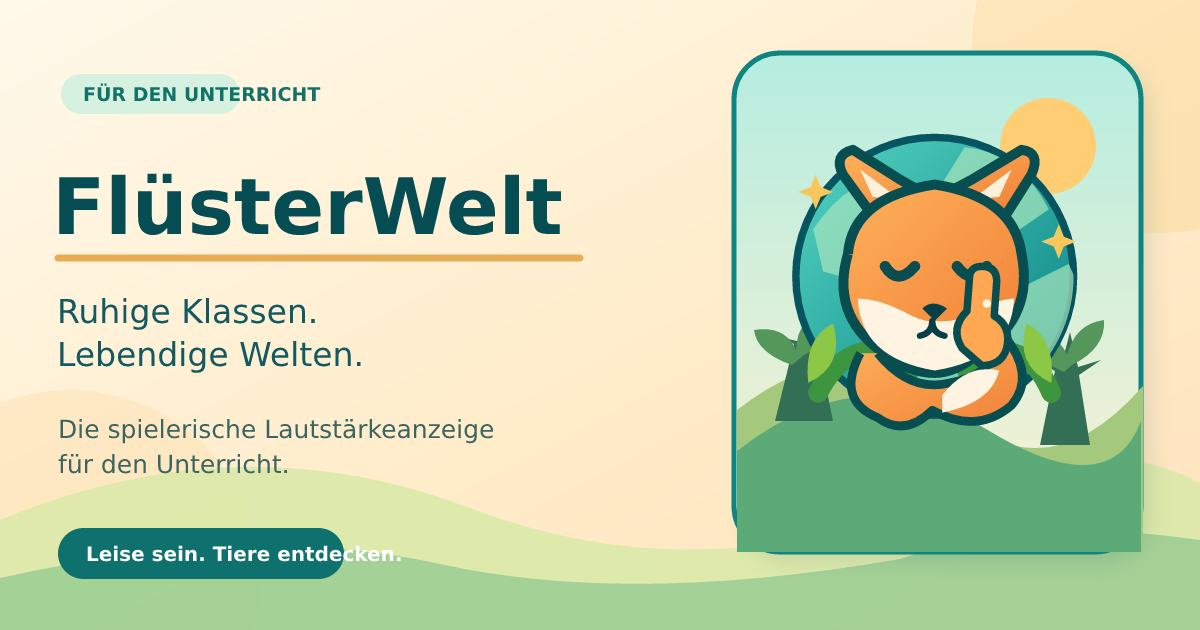
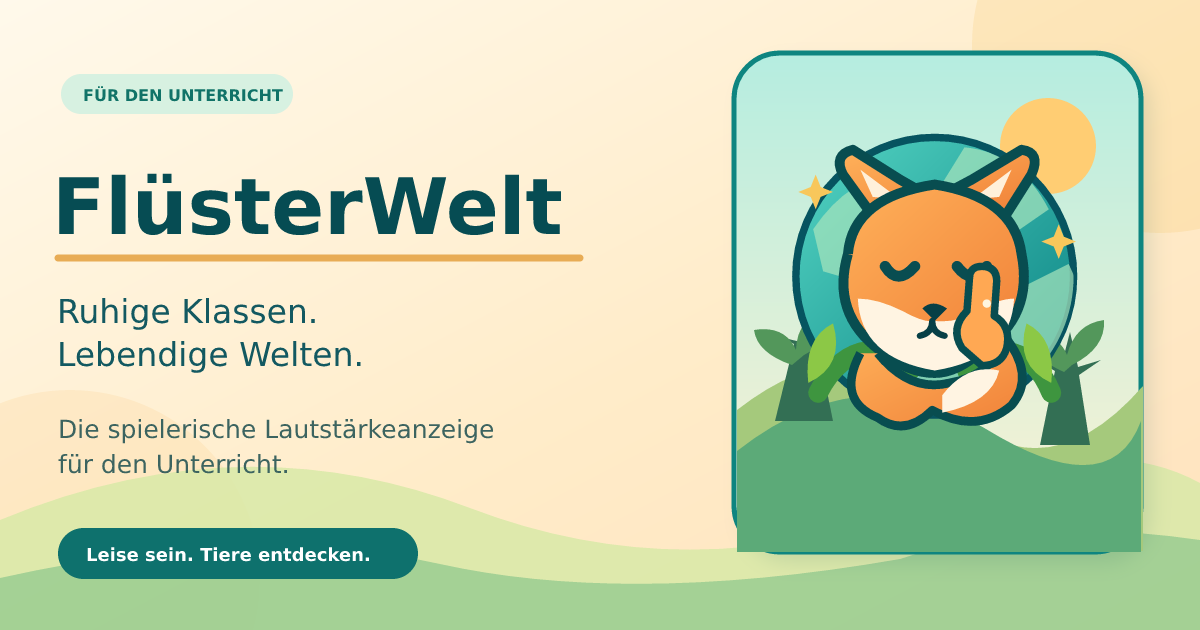
polish: align translations and social preview with FlüsterWelt brand

Changed region(s): [[0.0617, 0.8143, 0.37, 0.9349], [0.0617, 0.1206, 0.2775, 0.181]]

diff --git a/src/lib/i18n/index.svelte.ts b/src/lib/i18n/index.svelte.ts
@@ -19,7 +19,7 @@ const en = {
   locale: "en",
   ui: {
     "language.change": "Change language",
-    "app.pageTitle": "Shy Safari — free classroom noise level monitor",
+    "app.pageTitle": "FlüsterWelt — free classroom noise level monitor",
     "app.description":
       "A free classroom noise monitor for the projector. Shy savanna and coral reef animals come out the longer the room stays quiet. No sign-up, nothing recorded.",
     "brand.title": "Built by teacher.dev",
@@ -30,7 +30,7 @@ const en = {
     "common.howItWorks": "how it works",
     "preview.alt":
       "FlüsterWelt: a friendly fox before a globe, with the words Calm classes. Lively worlds.",
-    "common.back": "← Back to Shy Safari",
+    "common.back": "← Back to FlüsterWelt",
     "common.close": "Close",
     "common.cancel": "Cancel",
     "common.done": "Done",
@@ -40,10 +40,10 @@ const en = {
     "float.openHint":
       "Float the scene in a small window over your slides or other tabs",
     "float.failed": "The floating window could not be opened.",
-    "floating.title": "Shy Safari is floating",
+    "floating.title": "FlüsterWelt is floating",
     "floating.instructions":
       "The scene is in its own window over your other tabs, and keeps listening to the room. Keep this tab open: the window's back-to-tab button brings it back here.",
-    "floating.return": "Bring Shy Safari back here",
+    "floating.return": "Bring FlüsterWelt back here",
     "start.shy": "Shh… these animals are shy!",
     "start.explain":
       "If it gets too loud, they stay hidden. When the room is calm again, they'll start coming out.",
@@ -247,7 +247,7 @@ const en = {
     "blocked.unsupported":
       "This browser cannot use a microphone. Chrome, Edge and Safari all work.",
     "blocked.tryAgain": "Try again",
-    "about.pageTitle": "About — Shy Safari",
+    "about.pageTitle": "About — FlüsterWelt",
     "about.meta":
       "Shy Safari is a free classroom noise tool made at the EdTech-a-thon and run by teacher.dev. No ads, no accounts.",
     "about.title": "About",
@@ -270,8 +270,8 @@ const en = {
     "about.feedback":
       "If something isn't working, or you have an idea for Shy Safari or for another tool you'd use in class, send us an email.",
     "about.email": "Email support@teacher.dev",
-    "privacy.pageTitle": "Privacy — Shy Safari",
-    "privacy.meta": "What Shy Safari collects, what it doesn't, and why.",
+    "privacy.pageTitle": "Privacy — FlüsterWelt",
+    "privacy.meta": "What FlüsterWelt collects, what it doesn't, and why.",
     "privacy.title": "Privacy",
     "privacy.lede": "What we collect, what we don't, and why.",
     "privacy.microphone":
@@ -284,15 +284,15 @@ const en = {
     "privacy.analytics.afterLink":
       " for details. We do not share, sell, or otherwise transfer any visitor data to third parties.",
     "privacy.contact": "Questions or concerns? Email ",
-    "guide.title": "How Shy Safari works",
+    "guide.title": "How FlüsterWelt works",
     "guide.lede":
       "A free classroom noise level monitor that rewards quiet instead of punishing noise.",
     "guide.whatTitle": "What it is",
     "guide.what":
-      "Shy Safari is a classroom noise monitor that runs in a web browser. Put it on the projector or interactive whiteboard and it shows a calm savanna, coral reef, night sky in deep space, Cretaceous floodplain, woodland clearing, rainforest jungle or Arctic sea ice. It listens to how loud the room is through the computer's microphone, and while the class stays under the volume goal, shy animals come out one at a time. It is the opposite of a bouncing noise meter: there is no score, no needle and no red warning light, so nothing makes being loud more interesting than being quiet.",
+      "FlüsterWelt is a classroom noise monitor that runs in a web browser. Put it on the projector or interactive whiteboard and it shows a calm savanna, coral reef, night sky in deep space, Cretaceous floodplain, woodland clearing, rainforest jungle or Arctic sea ice. It listens to how loud the room is through the computer's microphone, and while the class stays under the volume goal, shy animals come out one at a time. It is the opposite of a bouncing noise meter: there is no score, no needle and no red warning light, so nothing makes being loud more interesting than being quiet.",
     "guide.useTitle": "Using it in class",
     "guide.use.open":
-      "Open shysafari.com on the computer connected to your projector, pick the savanna, the coral reef, deep space, the prehistoric scene, the forest, the jungle or the Arctic, and press Start. The browser asks to use the microphone.",
+      "Open FlüsterWelt on the computer connected to your projector, pick the savanna, the coral reef, deep space, the prehistoric scene, the forest, the jungle or the Arctic, and press Start. The browser asks to use the microphone.",
     "guide.use.goal":
       "Set the volume goal for the activity: Silent, Independent (quiet whispers) or Partner work (conversation voices), or drag the line on the meter to anywhere in between.",
     "guide.use.rate":
@@ -316,7 +316,7 @@ const en = {
     "guide.for":
       "Teachers of any grade who want a calm, visual cue for voice levels during independent work, reading time, tests, centers or group work. The whole class shares one screen, and students need nothing at all.",
     "guide.faqTitle": "Questions teachers ask",
-    "guide.faq.free.q": "Is Shy Safari free?",
+    "guide.faq.free.q": "Is FlüsterWelt free?",
     "guide.faq.free.a":
       "Yes. There are no paywalls, no ads and no premium version. It came out of the EdTech-a-thon, a community of builders making free tools for classrooms, and is maintained by teacher.dev.",
     "guide.faq.record.q": "Does it record the classroom?",
@@ -333,7 +333,7 @@ const en = {
       "English, Spanish and French. It follows the browser's language, and you can change it from the menu at the top of the screen.",
     "guide.faq.meter.q": "How is it different from a noise meter?",
     "guide.faq.meter.a":
-      "A noise meter shows the class how loud they are, which can turn getting louder into a game. Shy Safari shows only a peaceful scene that slowly fills with animals, so the reward for quiet work is what the class sees, and there is no score to beat.",
+      "A noise meter shows the class how loud they are, which can turn getting louder into a game. FlüsterWelt shows only a peaceful scene that slowly fills with animals, so the reward for quiet work is what the class sees, and there is no score to beat.",
   },
   creatures: {
     meerkat: "Meerkat",
@@ -645,7 +645,7 @@ const es = {
   locale: "es",
   ui: {
     "language.change": "Cambiar idioma",
-    "app.pageTitle": "Shy Safari — medidor de ruido gratuito para el aula",
+    "app.pageTitle": "FlüsterWelt — medidor de ruido gratuito para el aula",
     "app.description":
       "Un medidor de ruido gratuito para el proyector del aula. Animales tímidos de la sabana y del arrecife aparecen mientras la clase está en silencio. Sin registro, sin grabaciones.",
     "brand.title": "Creado por teacher.dev",
@@ -656,7 +656,7 @@ const es = {
     "common.howItWorks": "cómo funciona",
     "preview.alt":
       "FlüsterWelt: un zorro simpático delante de un globo y el lema Aulas tranquilas. Mundos llenos de vida.",
-    "common.back": "← Volver a Shy Safari",
+    "common.back": "← Volver a FlüsterWelt",
     "common.close": "Cerrar",
     "common.cancel": "Cancelar",
     "common.done": "Listo",
@@ -666,10 +666,10 @@ const es = {
     "float.openHint":
       "Mostrar la escena en una ventana pequeña sobre tus diapositivas u otras pestañas",
     "float.failed": "No se pudo abrir la ventana flotante.",
-    "floating.title": "Shy Safari está flotando",
+    "floating.title": "FlüsterWelt está flotando",
     "floating.instructions":
       "La escena está en su propia ventana sobre tus otras pestañas y sigue escuchando el aula. Deja esta pestaña abierta: el botón de la ventana para volver a la pestaña la trae de vuelta aquí.",
-    "floating.return": "Traer Shy Safari de vuelta aquí",
+    "floating.return": "Traer FlüsterWelt de vuelta aquí",
     "start.shy": "Shh… ¡estos animales son tímidos!",
     "start.explain":
       "Si hay demasiado ruido, se quedan escondidos. Cuando el aula vuelva a estar tranquila, empezarán a salir.",
@@ -876,7 +876,7 @@ const es = {
     "blocked.unsupported":
       "Este navegador no puede usar un micrófono. Chrome, Edge y Safari funcionan.",
     "blocked.tryAgain": "Volver a intentarlo",
-    "about.pageTitle": "Acerca de — Shy Safari",
+    "about.pageTitle": "Acerca de — FlüsterWelt",
     "about.meta":
       "Shy Safari es una herramienta gratuita para el ruido en el aula, creada en el EdTech-a-thon y gestionada por teacher.dev. Sin anuncios ni cuentas.",
     "about.title": "Acerca de",
@@ -900,8 +900,8 @@ const es = {
     "about.feedback":
       "Si algo no funciona, o tienes una idea para Shy Safari o para otra herramienta que usarías en clase, mándanos un correo.",
     "about.email": "Escribir a support@teacher.dev",
-    "privacy.pageTitle": "Privacidad — Shy Safari",
-    "privacy.meta": "Qué recopila Shy Safari, qué no y por qué.",
+    "privacy.pageTitle": "Privacidad — FlüsterWelt",
+    "privacy.meta": "Qué recopila FlüsterWelt, qué no y por qué.",
     "privacy.title": "Privacidad",
     "privacy.lede": "Qué recopilamos, qué no y por qué.",
     "privacy.microphone":
@@ -914,15 +914,15 @@ const es = {
     "privacy.analytics.afterLink":
       " de Cloudflare para más detalles. No compartimos, vendemos ni transferimos de ningún otro modo los datos de los visitantes a terceros.",
     "privacy.contact": "¿Tienes preguntas o dudas? Escribe a ",
-    "guide.title": "Cómo funciona Shy Safari",
+    "guide.title": "Cómo funciona FlüsterWelt",
     "guide.lede":
       "Un medidor de ruido gratuito para el aula que premia el silencio en lugar de castigar el ruido.",
     "guide.whatTitle": "Qué es",
     "guide.what":
-      "Shy Safari es un medidor de ruido para el aula que funciona en el navegador. Ponlo en el proyector o en la pizarra digital y muestra una sabana, un arrecife de coral, un cielo del espacio profundo, una llanura del Cretácico, un claro del bosque, una selva tropical o el hielo ártico tranquilos. Escucha lo fuerte que suena la clase a través del micrófono del ordenador y, mientras la clase se mantiene por debajo del límite de volumen, van apareciendo animales tímidos uno a uno. Es lo contrario de un medidor de ruido que salta: no hay puntuación, ni aguja, ni luz roja de aviso, así que hacer ruido nunca resulta más interesante que estar en silencio.",
+      "FlüsterWelt es un medidor de ruido para el aula que funciona en el navegador. Ponlo en el proyector o en la pizarra digital y muestra una sabana, un arrecife de coral, un cielo del espacio profundo, una llanura del Cretácico, un claro del bosque, una selva tropical o el hielo ártico tranquilos. Escucha lo fuerte que suena la clase a través del micrófono del ordenador y, mientras la clase se mantiene por debajo del límite de volumen, van apareciendo animales tímidos uno a uno. Es lo contrario de un medidor de ruido que salta: no hay puntuación, ni aguja, ni luz roja de aviso, así que hacer ruido nunca resulta más interesante que estar en silencio.",
     "guide.useTitle": "Cómo usarlo en clase",
     "guide.use.open":
-      "Abre shysafari.com en el ordenador conectado al proyector, elige la sabana, el arrecife de coral, el espacio profundo, la prehistoria, el bosque, la selva o el Ártico y pulsa Empezar. El navegador pedirá permiso para usar el micrófono.",
+      "Abre FlüsterWelt en el ordenador conectado al proyector, elige la sabana, el arrecife de coral, el espacio profundo, la prehistoria, el bosque, la selva o el Ártico y pulsa Empezar. El navegador pedirá permiso para usar el micrófono.",
     "guide.use.goal":
       "Elige el límite de volumen para la actividad: Silencio, Individual (solo susurros) o En parejas (voz de conversación), o arrastra la línea del medidor a cualquier punto intermedio.",
     "guide.use.rate":
@@ -946,7 +946,7 @@ const es = {
     "guide.for":
       "Para docentes de cualquier etapa que quieren una señal visual y tranquila del nivel de voz durante el trabajo individual, la lectura, los exámenes, los rincones o el trabajo en grupo. Toda la clase comparte una pantalla y el alumnado no necesita nada.",
     "guide.faqTitle": "Preguntas frecuentes",
-    "guide.faq.free.q": "¿Shy Safari es gratis?",
+    "guide.faq.free.q": "¿FlüsterWelt es gratis?",
     "guide.faq.free.a":
       "Sí. No hay muros de pago, ni anuncios, ni versión premium. Nació en el EdTech-a-thon, una comunidad que crea herramientas gratuitas para las aulas, y lo mantiene teacher.dev.",
     "guide.faq.record.q": "¿Graba lo que pasa en el aula?",
@@ -963,7 +963,7 @@ const es = {
       "En inglés, español y francés. Sigue el idioma del navegador, y puedes cambiarlo desde el menú de la parte superior de la pantalla.",
     "guide.faq.meter.q": "¿En qué se diferencia de un medidor de ruido?",
     "guide.faq.meter.a":
-      "Un medidor de ruido le muestra a la clase lo fuerte que está hablando, y eso puede convertir el hacer ruido en un juego. Shy Safari solo muestra una escena tranquila que se va llenando de animales, así que lo que la clase ve es la recompensa por trabajar en silencio, y no hay ninguna puntuación que batir.",
+      "Un medidor de ruido le muestra a la clase lo fuerte que está hablando, y eso puede convertir el hacer ruido en un juego. FlüsterWelt solo muestra una escena tranquila que se va llenando de animales, así que lo que la clase ve es la recompensa por trabajar en silencio, y no hay ninguna puntuación que batir.",
   },
   scenes: {
     space: {
@@ -1243,7 +1243,7 @@ const fr = {
   locale: "fr",
   ui: {
     "language.change": "Changer de langue",
-    "app.pageTitle": "Shy Safari — sonomètre gratuit pour la classe",
+    "app.pageTitle": "FlüsterWelt — sonomètre gratuit pour la classe",
     "app.description":
       "Un sonomètre gratuit pour le vidéoprojecteur de la classe. Des animaux timides de la savane et du récif sortent tant que la classe reste calme. Sans inscription, sans enregistrement.",
     "brand.title": "Créé par teacher.dev",
@@ -1254,7 +1254,7 @@ const fr = {
     "common.howItWorks": "comment ça marche",
     "preview.alt":
       "FlüsterWelt : un renard sympathique devant un globe et le slogan Classes calmes. Mondes vivants.",
-    "common.back": "← Retour à Shy Safari",
+    "common.back": "← Retour à FlüsterWelt",
     "common.close": "Fermer",
     "common.cancel": "Annuler",
     "common.done": "Terminé",
@@ -1264,10 +1264,10 @@ const fr = {
     "float.openHint":
       "Afficher la scène dans une petite fenêtre au-dessus de vos diapositives ou d’autres onglets",
     "float.failed": "Impossible d’ouvrir la fenêtre flottante.",
-    "floating.title": "Shy Safari est dans une fenêtre flottante",
+    "floating.title": "FlüsterWelt est dans une fenêtre flottante",
     "floating.instructions":
       "La scène est dans sa propre fenêtre au-dessus de vos autres onglets et continue d’écouter la classe. Gardez cet onglet ouvert : le bouton de retour à l’onglet de la fenêtre la ramène ici.",
-    "floating.return": "Ramener Shy Safari ici",
+    "floating.return": "Ramener FlüsterWelt ici",
     "start.shy": "Chut… ces animaux sont timides !",
     "start.explain":
       "S’il y a trop de bruit, ils restent cachés. Quand la classe redevient calme, ils commencent à sortir.",
@@ -1475,7 +1475,7 @@ const fr = {
     "blocked.unsupported":
       "Ce navigateur ne peut pas utiliser de micro. Chrome, Edge et Safari fonctionnent tous.",
     "blocked.tryAgain": "Réessayer",
-    "about.pageTitle": "À propos — Shy Safari",
+    "about.pageTitle": "À propos — FlüsterWelt",
     "about.meta":
       "Shy Safari est un outil gratuit pour le bruit en classe, créé à l’EdTech-a-thon et géré par teacher.dev. Sans publicité ni compte.",
     "about.title": "À propos",
@@ -1498,9 +1498,9 @@ const fr = {
     "about.feedback":
       "Si quelque chose ne marche pas, ou si vous avez une idée pour Shy Safari ou pour un autre outil que vous utiliseriez en classe, envoyez-nous un e-mail.",
     "about.email": "Écrire à support@teacher.dev",
-    "privacy.pageTitle": "Confidentialité — Shy Safari",
+    "privacy.pageTitle": "Confidentialité — FlüsterWelt",
     "privacy.meta":
-      "Ce que Shy Safari collecte, ce qu’il ne collecte pas, et pourquoi.",
+      "Ce que FlüsterWelt collecte, ce qu’il ne collecte pas, et pourquoi.",
     "privacy.title": "Confidentialité",
     "privacy.lede":
       "Ce que nous collectons, ce que nous ne collectons pas, et pourquoi.",
@@ -1514,15 +1514,15 @@ const fr = {
     "privacy.analytics.afterLink":
       " de Cloudflare pour en savoir plus. Nous ne partageons, ne vendons ni ne transférons d’aucune autre manière les données des visiteurs à des tiers.",
     "privacy.contact": "Des questions ou des inquiétudes ? Écrivez à ",
-    "guide.title": "Comment fonctionne Shy Safari",
+    "guide.title": "Comment fonctionne FlüsterWelt",
     "guide.lede":
       "Un sonomètre gratuit pour la classe qui récompense le calme au lieu de punir le bruit.",
     "guide.whatTitle": "Ce que c'est",
     "guide.what":
-      "Shy Safari est un sonomètre pour la classe qui fonctionne dans le navigateur. Affichez-le au vidéoprojecteur ou sur le tableau interactif : il montre une savane, un récif de corail, un ciel de l'espace profond, une plaine du Crétacé, une clairière en forêt, une jungle tropicale ou une banquise arctique paisibles. Il écoute le niveau sonore de la salle grâce au micro de l'ordinateur et, tant que la classe reste sous l'objectif de volume, des animaux timides sortent un par un. C'est le contraire d'un sonomètre qui s'agite : pas de score, pas d'aiguille, pas de voyant rouge, donc rien ne rend le bruit plus intéressant que le calme.",
+      "FlüsterWelt est un sonomètre pour la classe qui fonctionne dans le navigateur. Affichez-le au vidéoprojecteur ou sur le tableau interactif : il montre une savane, un récif de corail, un ciel de l'espace profond, une plaine du Crétacé, une clairière en forêt, une jungle tropicale ou une banquise arctique paisibles. Il écoute le niveau sonore de la salle grâce au micro de l'ordinateur et, tant que la classe reste sous l'objectif de volume, des animaux timides sortent un par un. C'est le contraire d'un sonomètre qui s'agite : pas de score, pas d'aiguille, pas de voyant rouge, donc rien ne rend le bruit plus intéressant que le calme.",
     "guide.useTitle": "L'utiliser en classe",
     "guide.use.open":
-      "Ouvrez shysafari.com sur l'ordinateur relié au vidéoprojecteur, choisissez la savane, le récif de corail, l'espace profond, la préhistoire, la forêt, la jungle ou l'Arctique, puis appuyez sur Commencer. Le navigateur demande l'accès au micro.",
+      "Ouvrez FlüsterWelt sur l'ordinateur relié au vidéoprojecteur, choisissez la savane, le récif de corail, l'espace profond, la préhistoire, la forêt, la jungle ou l'Arctique, puis appuyez sur Commencer. Le navigateur demande l'accès au micro.",
     "guide.use.goal":
       "Réglez l'objectif de volume pour l'activité : Silence, Travail seul (chuchotements) ou En binôme (voix de conversation), ou faites glisser la ligne du sonomètre n'importe où entre les deux.",
     "guide.use.rate":
@@ -1546,7 +1546,7 @@ const fr = {
     "guide.for":
       "Pour les enseignants de tous niveaux qui veulent un repère visuel et apaisant du niveau de voix pendant le travail autonome, la lecture, les évaluations, les ateliers ou le travail de groupe. Toute la classe partage un seul écran et les élèves n'ont besoin de rien.",
     "guide.faqTitle": "Questions fréquentes",
-    "guide.faq.free.q": "Shy Safari est-il gratuit ?",
+    "guide.faq.free.q": "FlüsterWelt est-il gratuit ?",
     "guide.faq.free.a":
       "Oui. Pas de paiement, pas de publicité, pas de version premium. Il est né de l'EdTech-a-thon, une communauté qui crée des outils gratuits pour les classes, et il est maintenu par teacher.dev.",
     "guide.faq.record.q": "Est-ce qu'il enregistre la classe ?",
@@ -1563,7 +1563,7 @@ const fr = {
       "L'anglais, l'espagnol et le français. Il suit la langue du navigateur, et vous pouvez la changer depuis le menu en haut de l'écran.",
     "guide.faq.meter.q": "En quoi est-ce différent d'un sonomètre ?",
     "guide.faq.meter.a":
-      "Un sonomètre montre à la classe à quel point elle est bruyante, ce qui peut transformer le bruit en jeu. Shy Safari ne montre qu'une scène paisible qui se remplit peu à peu d'animaux : ce que la classe voit, c'est la récompense du travail silencieux, et il n'y a aucun score à battre.",
+      "Un sonomètre montre à la classe à quel point elle est bruyante, ce qui peut transformer le bruit en jeu. FlüsterWelt ne montre qu'une scène paisible qui se remplit peu à peu d'animaux : ce que la classe voit, c'est la récompense du travail silencieux, et il n'y a aucun score à battre.",
   },
   scenes: {
     space: {
